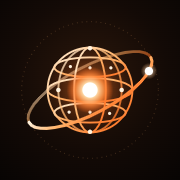
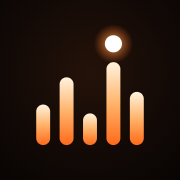
Marca: emblema minimalista de barras de pulso e logotipo mais arejado, seguindo as referências

Changed region(s): [[0.1389, 0.1389, 0.8889, 0.8056]]

diff --git a/mapa-2d.js b/mapa-2d.js
@@ -18,24 +18,19 @@
     const pt = d => [(32 + R * Math.cos(rad(d))).toFixed(2), (32 + R * Math.sin(rad(d))).toFixed(2)], [x0, y0] = pt(a0), [x1, y1] = pt(a1);
     return `M${x0} ${y0}A${R} ${R} 0 ${a1 - a0 > 180 ? 1 : 0} 1 ${x1} ${y1}`;
   }
-  /** Emblema da marca (globo geodésico + núcleo que bate + órbita com satélite). O tamanho vem do font-size do pai. Fonte do desenho: scripts/marca/marca.cjs. */
+  /** Emblema da marca: cinco barras de pulso e o núcleo aceso (bate no ritmo do coração). O tamanho vem do font-size do pai. Fonte do desenho: scripts/marca/marca.cjs. */
   function logo(extra) {
     return `<svg class="mk ${extra || ''}" viewBox="0 0 64 64" aria-hidden="true"><defs>
-      <radialGradient id="mkc"><stop offset="0" stop-color="#fff"/><stop offset=".45" stop-color="#ffe3b4"/><stop offset="1" stop-color="#ff7a26"/></radialGradient>
-      <radialGradient id="mkg"><stop offset="0" stop-color="#ff9a45" stop-opacity=".5"/><stop offset="1" stop-color="#ff6a1a" stop-opacity=".05"/></radialGradient>
-      <linearGradient id="mka" x1="0" y1="0" x2="1" y2="1"><stop offset="0" stop-color="#fff3df"/><stop offset=".45" stop-color="#ffb36a"/><stop offset="1" stop-color="#ff6a1a"/></linearGradient></defs>
-      <circle cx="32" cy="32" r="29.6" fill="none" stroke="#ffb36a" stroke-opacity=".32" stroke-width=".5" stroke-dasharray=".3 1.9" stroke-linecap="round"/>
-      <g transform="translate(32 32) rotate(-28)"><path d="M-27.3 0A27.3 9.3 0 0 1 27.3 0" fill="none" stroke="url(#mka)" stroke-width="1.1" stroke-linecap="round" stroke-opacity=".55"/></g>
-      <circle cx="32" cy="32" r="16.8" fill="url(#mkg)"/>
-      <g fill="none" stroke="url(#mka)" stroke-width=".85" stroke-linecap="round"><circle cx="32" cy="32" r="16.8"/><ellipse cx="32" cy="32" rx="16.8" ry="4.8"/><ellipse cx="32" cy="23" rx="14" ry="3.8"/><ellipse cx="32" cy="41" rx="14" ry="3.8"/><ellipse cx="32" cy="32" rx="6.3" ry="16.8"/><ellipse cx="32" cy="32" rx="12.5" ry="16.8" stroke-opacity=".8"/><path d="M32 15.4V48.6" stroke-opacity=".7"/></g>
-      <g class="mk-core"><circle cx="32" cy="32" r="9.2" fill="url(#mkc)" fill-opacity=".85"/><circle cx="32" cy="32" r="3" fill="#fff"/></g>
-      <g transform="translate(32 32) rotate(-28)"><path d="M27.3 0A27.3 9.3 0 0 1 -27.3 0" fill="none" stroke="url(#mka)" stroke-width="1.3" stroke-linecap="round"/><circle class="mk-sat" r="1.9" fill="#fff"/></g></svg>`;
+      <linearGradient id="mka" x1="0" y1="0" x2="0" y2="1"><stop offset="0" stop-color="#fff3df"/><stop offset=".5" stop-color="#ffb36a"/><stop offset="1" stop-color="#ff6a1a"/></linearGradient>
+      <radialGradient id="mkc"><stop offset="0" stop-color="#ffb36a" stop-opacity=".85"/><stop offset="1" stop-color="#ff6a1a" stop-opacity="0"/></radialGradient></defs>
+      <g fill="url(#mka)"><rect class="mk-b" x="11.3" y="37.0" width="5.4" height="14" rx="2.7"/><rect class="mk-b" x="20.3" y="27.0" width="5.4" height="24" rx="2.7"/><rect class="mk-b" x="29.3" y="40.0" width="5.4" height="11" rx="2.7"/><rect class="mk-b" x="38.3" y="21.0" width="5.4" height="30" rx="2.7"/><rect class="mk-b" x="47.3" y="32.0" width="5.4" height="19" rx="2.7"/></g>
+      <g class="mk-core"><circle cx="41.0" cy="14.4" r="7.6" fill="url(#mkc)"/><circle cx="41.0" cy="14.4" r="3.4" fill="#fff"/></g></svg>`;
   }
   /** Logotipo JARVÃO desenhado em traço contínuo (o "O" carrega o núcleo). Mesmo desenho de icons/jarvao-logotipo.svg. */
   let wmN = 0;
   function marca() {
     const id = 'wm' + (++wmN);
-    return `<svg class="wm-svg" viewBox="-6 -5 316 75" role="img" aria-label="Jarvão"><defs><linearGradient id="${id}g" x1="0" y1="0" x2="0" y2="1"><stop offset="0" stop-color="#fff6e6"/><stop offset=".5" stop-color="#ffcf9a"/><stop offset="1" stop-color="#ff8a3d"/></linearGradient><radialGradient id="${id}c"><stop offset="0" stop-color="#fff"/><stop offset=".5" stop-color="#ffd9a8"/><stop offset="1" stop-color="#ff7a26"/></radialGradient></defs><g fill="none" stroke="url(#${id}g)" stroke-width="5.2" stroke-linecap="round" stroke-linejoin="round"><path d="M31 16V45a14 14 0 0 1-14 14h-1a12 12 0 0 1-10-5"/><path transform="translate(52 0)" d="M4 62 20 16 36 62M10.5 45h19"/><path transform="translate(104 0)" d="M7 62V16h14a13 13 0 0 1 0 26H7M21 42l13 20"/><path transform="translate(156 0)" d="M4 16 20 62 36 16"/><path transform="translate(208 0)" d="M4 62 20 16 36 62M10.5 45h19M9 7q5-7 11-3t11-2"/><circle cx="283" cy="39" r="22.5"/><circle cx="283" cy="39" r="11" stroke-width="1.6" stroke-opacity=".55"/></g><circle cx="283" cy="39" r="5.2" fill="url(#${id}c)"/></svg>`;
+    return `<svg class="wm-svg" viewBox="-6 -5 336 75" role="img" aria-label="Jarvão"><defs><linearGradient id="${id}g" x1="0" y1="0" x2="0" y2="1"><stop offset="0" stop-color="#fff6e6"/><stop offset=".5" stop-color="#ffcf9a"/><stop offset="1" stop-color="#ff8a3d"/></linearGradient><radialGradient id="${id}c"><stop offset="0" stop-color="#fff"/><stop offset=".5" stop-color="#ffd9a8"/><stop offset="1" stop-color="#ff7a26"/></radialGradient></defs><g fill="none" stroke="url(#${id}g)" stroke-width="4.6" stroke-linecap="round" stroke-linejoin="round"><path d="M31 16V45a14 14 0 0 1-14 14h-1a12 12 0 0 1-10-5"/><path transform="translate(56 0)" d="M4 62 20 16 36 62M10.5 45h19"/><path transform="translate(112 0)" d="M7 62V16h14a13 13 0 0 1 0 26H7M21 42l13 20"/><path transform="translate(168 0)" d="M4 16 20 62 36 16"/><path transform="translate(224 0)" d="M4 62 20 16 36 62M10.5 45h19M9 7q5-7 11-3t11-2"/><circle cx="303" cy="39" r="22.5"/></g><circle cx="303" cy="39" r="4.6" fill="url(#${id}c)"/></svg>`;
   }
   const ICONE_PROJ = {
     gabinete: '<path d="M3 22h18"/><path d="M6 18v-7M10 18v-7M14 18v-7M18 18v-7"/><path d="M12 2 3 8h18z"/>',
@@ -51,13 +46,14 @@
 
   const CSS = `
   .mk{width:1em;height:1em;display:inline-block;flex:none;overflow:visible;vertical-align:middle}
-  .mk-core{transform-origin:32px 32px;animation:mk-bate 1.6s ease-in-out infinite}
-  .mk-sat{offset-path:path("M-27.3 0a27.3 9.3 0 1 0 54.6 0a27.3 9.3 0 1 0 -54.6 0");offset-rotate:0deg;animation:mk-sat 11s linear infinite}
-  @keyframes mk-sat{to{offset-distance:100%}}
+  .mk-core{transform-box:fill-box;transform-origin:center;animation:mk-bate 1.6s ease-in-out infinite}
+  .mk-b{transform-box:fill-box;transform-origin:50% 100%;animation:mk-barra 1.6s ease-in-out infinite}
+  .mk-b:nth-child(2){animation-delay:.06s}.mk-b:nth-child(3){animation-delay:.12s}.mk-b:nth-child(4){animation-delay:.18s}.mk-b:nth-child(5){animation-delay:.24s}
+  @keyframes mk-barra{0%,40%,100%{transform:scaleY(1)}10%{transform:scaleY(1.1)}22%{transform:scaleY(.97)}}
   @keyframes mk-bate{0%,100%{transform:scale(1)}7%{transform:scale(1.16)}20%{transform:scale(1.02)}24%{transform:scale(1.1)}38%{transform:scale(1)}}
   .wm-svg{display:block;height:1.5em;width:auto;overflow:visible;filter:drop-shadow(0 0 .35em rgba(255,128,48,.5)) drop-shadow(0 0 1em rgba(255,100,30,.25))}
   .pi{width:1em;height:1em;fill:none;stroke:currentColor;stroke-width:1.7;stroke-linecap:round;stroke-linejoin:round;flex:none;vertical-align:-.15em}
-  @media(prefers-reduced-motion:reduce){.mk-core,.mk-sat{animation:none}}`;
+  @media(prefers-reduced-motion:reduce){.mk-core,.mk-b{animation:none}}`;
 
 
   function montar(opcoes) { return CenaJarvis.montar(opcoes); }

diff --git a/docs/migracao-2d/ESTADO.md b/docs/migracao-2d/ESTADO.md
@@ -135,3 +135,4 @@ Checkpoint: tag `checkpoint-polimento-1` (árvore limpa em `3d35c9f`). Harness d
 - Agora: estados JORNADA / VISAO / TRANSICAO em `cena-2d.js` (um único dono da câmera; tweens soltos da câmera são mortos ao trocar de estado, sem matar os da timeline). Um gesto de rolagem (wheel, toque, PageUp/Down, setas, espaço, Home/End) = uma etapa, por rolagem animada do Lenis (1,1 s, easeInOutCubic) até a pose de repouso; parada no meio faz snap para a pose mais próxima (140 ms de ociosidade, 0,6 s); inércia de trackpad não gera passos extras (detecção de novo gesto); em VISAO qualquer rolagem fecha painel, anima a câmera de volta à pose e enfileira 1 gesto; durante TRANSICAO só 1 gesto fica na fila. `scrub:true` (o Lenis já suaviza), Lenis `lerp:.09`. Decisão: gesto→etapa por Lenis em vez de ScrollTrigger snap/Observer (o Observer não está nos vendors e o snap brigaria com o Lenis).
 - Textos com crossfade (visíveis só a ±0,1–0,34 de uma pose): nunca dois textos juntos, nenhum sobre o núcleo em movimento. Painel de detalhes escolhe um canto livre (sem cobrir rótulos, mapa ou dock).
 - Medido (1920 e 1365): wheel 30/80/120/240/500 → sempre 1 etapa, repouso a 0,000 do alvo (limite ±0,4%); trackpad de 70 eventos/1434 px → 1 etapa, e inverso volta; inversão e interrupção no snap OK; 6 sequências do modo G sem sobreposição e sem erros; 10 poses + 45 pontos intermediários: 0 sobreposições texto/rótulo/painel/mapa e 0 textos sobre o núcleo.
+- Marca v2 (referências minimalistas enviadas pelo Caio: barras de pulso + JARVIS espaçado/leve, e emblema geométrico com ponto de cor): emblema = 5 barras de pulso (alturas irregulares) com o núcleo aceso sobre a mais alta; logotipo em traço mais fino (4,6) e mais espaçado, sem ornamentos no "O" (só o ponto do núcleo). No cabeçalho as barras respiram em onda e o núcleo bate no ritmo de 1,6 s. Ícones regenerados.
